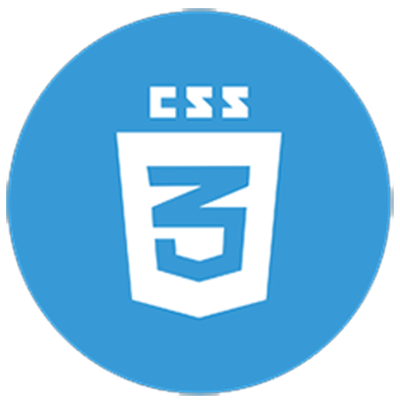
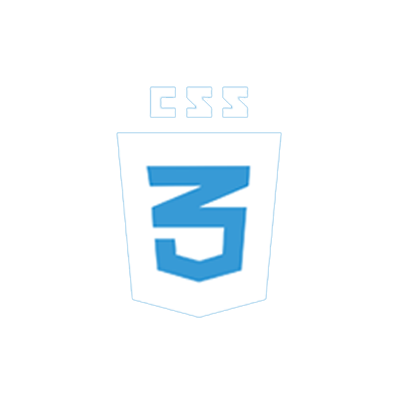
updated skill section with whole new design

diff --git a/Portfolio/index.html b/Portfolio/index.html
@@ -104,62 +104,74 @@
                 <p class="para">I am confident using on following technologies</p>
             </div>
             <div class="content">
-                <div class="img-container">
-                    <img src="images/html.png" alt="HTML">
-                    <span class="html">
-                        <p>90%</p>
-                    </span>
+                <div class="scaler-box">
+                    <p>100%</p>
+                    <p>0%</p>
                 </div>
-                <div class="img-container">
-                    <img src="images/css.png" alt="CSS">
-                    <span class="css">
+
+                <style>
+
+                </style>
+                <div class="skill-box">
+                    <div class="html-box rectangle">
                         <p>90%</p>
-                    </span>
+                        <img src="images/html.png" alt="image">
+                    </div>
                 </div>
-                <div class="img-container">
-                    <img src="images/js.png" alt="JS">
-                    <span class="js">
+                <div class="skill-box">
+                    <div class="css-box rectangle">
+                        <p>90%</p>
+                        <img src="images/css.png" alt="image">
+                    </div>
+                </div>
+                <div class="skill-box">
+                    <div class="js-box rectangle">
                         <p>80%</p>
-                    </span>
+                        <img src="images/js.png" alt="image">
+                    </div>
                 </div>
-                <div class="img-container">
-                    <img src="images/bootstrap.png" alt="bootstrap">
-                    <span class="bs">
+                <div class="skill-box">
+                    <div class="bootstrap-box rectangle">
                         <p>85%</p>
-                    </span>
+                        <img src="images/bootstrap.png" alt="image">
+                    </div>
                 </div>
-                <div class="img-container">
-                    <img src="images/github.png" alt="github">
-                    <span class="github">
+                <div class="skill-box">
+                    <div class="github-box rectangle">
                         <p>80%</p>
-                    </span>
+                        <img src="images/github.png" alt="image">
+                    </div>
                 </div>
             </div>
             <p class="para center">I have also worked on these technologies</p>
             <div class="content">
-                <div class="img-container">
-                    <img src="images/php.png" alt="PHP">
-                    <span class="php">
+                <div class="scaler-box">
+                    <p>100%</p>
+                    <p>0%</p>
+                </div>
+                <div class="skill-box">
+                    <div class="php-box rectangle">
                         <p>70%</p>
-                    </span>
+                        <img src="images/php.png" alt="image">
+                    </div>
                 </div>
-                <div class="img-container">
-                    <img src="images/laravel.png" alt="laravel">
-                    <span class="lara">
+                <div class="skill-box">
+                    <div class="laravel-box rectangle">
                         <p>60%</p>
-                    </span>
+                        <img src="images/laravel.png" alt="image">
+                    </div>
                 </div>
-                <div class="img-container">
-                    <img src="images/ai.png" alt="AI">
-                    <span class="ai">
+                <div class="skill-box">
+                    <div class="ai-box rectangle">
                         <p>60%</p>
-                    </span>
+                        <img src="images/ai.png" alt="image">
+                    </div>
                 </div>
-                <div class="img-container">
-                    <img src="images/photoshop.png" alt="PS">
-                    <span class="ps">
+                <div class="skill-box">
+                    <div class="ps-box rectangle">
                         <p>80%</p>
-                    </span>
+                        <img src="images/photoshop.png" alt="image">
+                    </div>
                 </div>
             </div>
         </div>
@@ -291,38 +303,6 @@
             </div>
         </div>
     </footer>
-
-    <style>
-        .footer-section {
-            height: 120px;
-            padding-block: 1.5rem;
-            color: var(--clr-white);
-            background-color: var(--clr-secondary);
-            text-align: center;
-        }
-
-        .footer-section .footer-info a {
-            color: var(--clr-accent);
-        }
-
-        .footer-section a:hover {
-            color: var(--clr-primary);
-            text-decoration: underline;
-        }
-
-        .footer-section .footer-socials {
-            margin-top: 1rem;
-        }
-
-        .footer-section .footer-socials a {
-            color: var(--clr-primary);
-            padding-inline: 1rem;
-        }
-
-        .footer-section .footer-socials a:hover{
-            color: var(--clr-accent);
-        }
-    </style>
 </body>
 
 </html>

diff --git a/Portfolio/css/section/skill.css b/Portfolio/css/section/skill.css
@@ -9,87 +9,120 @@
 
 .skill-container .content {
     display: flex;
-    justify-content: space-evenly;
+    justify-content: center;
+    gap: .25rem;
 }
 
-.skill-container .content .img-container {
-    width: 120px;
-    height: 120px;
-}
-
-.img-container {
+.scaler-box {
+    width: 5px;
+    height: 300px;
+    color: var(--clr-secondary);
+    background-color: var(--clr-secondary);
     position: relative;
 }
 
-.img-container span {
+.scaler-box p:nth-child(1) {
     position: absolute;
-    visibility: hidden;
-    border-radius: 24px;
-    outline: 1px solid #d9d7d7;
-    top: -10px;
-    background-color: #eaeaea;
-    width: 100%;
+    top: 0;
+    right: 10px;
 }
 
-.img-container .html p,
-.img-container .css p,
-.img-container .js p,
-.img-container .bs p,
-.img-container .github p,
-.img-container .php p,
-.img-container .lara p,
-.img-container .ai p,
-.img-container .ps p {
-    font-size: 0.9rem;
-    border-radius: 16px;
-    padding-right: 4px;
-    text-align: right;
-    color: var(--clr-white);
-    background-color: #337ab7;
+.scaler-box p:nth-child(2) {
+    position: absolute;
+    bottom: 0;
+    right: 10px;
 }
 
-.img-container .html p,
-.img-container .css p {
-    width: 90%;
+.skill-box {
+    height: 300px;
+    display: flex;
+    align-items: flex-end;
+    transition: transform .3s ease;
 }
 
-.img-container .js p,
-.img-container .github p,
-.img-container .ps p {
-    width: 80%;
+.skill-box:hover {
+    transform: translateY(-10px);
+    transition: transform .3s ease-in;
 }
 
-.img-container .bs p {
-    width: 85%;
+.html-box {
+    width: 150px;
+    height: 270px;
+    background-color: #e85823;
 }
 
-.img-container .php p {
-    width: 70%;
+.css-box {
+    width: 150px;
+    height: 270px;
+    background-color: #379ad6;
 }
 
-.img-container .lara p,
-.img-container .ai p {
-    width: 60%;
+.js-box {
+    width: 150px;
+    height: 240px;
+    background-color: #f0db4f;
 }
 
-.content .img-container img {
-    transition: scale .5s ease-out;
-    cursor: grab;
+.bootstrap-box {
+    width: 150px;
+    height: 255px;
+    background-color: #563e7c;
 }
 
-.content .img-container:hover img {
-    opacity: 0.8;
-    scale: 0.9;
-    transition: scale .5s ease-in;
+.github-box {
+    width: 150px;
+    height: 240px;
+    background-color: #171515;
 }
 
-.content .img-container:hover span {
-    visibility: visible;
-    animation: aaa .5s ease-in-out 1 normal forwards;
+.php-box {
+    width: 150px;
+    height: 210px;
+    background-color: #3765af;
 }
 
-@keyframes aaa {
-    100% {
-        top: -25px;
-    }
+.laravel-box {
+    width: 150px;
+    height: 180px;
+    background-color: #ef3b2d;
+}
+
+.ai-box {
+    width: 150px;
+    height: 180px;
+    background-color: #320000;
+}
+
+.ps-box {
+    width: 150px;
+    height: 240px;
+    background-color: #001e36;
+}
+
+.rectangle {
+    position: relative;
+}
+
+.rectangle img {
+    width: 120px;
+    height: 120px;
+    position: absolute;
+    top: 50%;
+    left: 50%;
+    transform: translate(-50%, -50%);
+}
+
+.rectangle {
+    text-align: center;
+}
+
+.rectangle p {
+    color: white;
+    opacity: 0;
+}
+
+.skill-box:hover .rectangle p {
+    opacity: 1;
+    padding-block: .5rem;
+    transition: opacity .5s ease;
 }

diff --git a/Portfolio/css/section/footer.css b/Portfolio/css/section/footer.css
@@ -1,0 +1,29 @@
+.footer-section {
+    height: 120px;
+    padding-block: 1.5rem;
+    color: var(--clr-white);
+    background-color: var(--clr-secondary);
+    text-align: center;
+}
+
+.footer-section .footer-info a {
+    color: var(--clr-accent);
+}
+
+.footer-section a:hover {
+    color: var(--clr-primary);
+    text-decoration: underline;
+}
+
+.footer-section .footer-socials {
+    margin-top: 1rem;
+}
+
+.footer-section .footer-socials a {
+    color: var(--clr-primary);
+    padding-inline: 1rem;
+}
+
+.footer-section .footer-socials a:hover {
+    color: var(--clr-accent);
+}

diff --git a/Portfolio/css/main/util.css b/Portfolio/css/main/util.css
@@ -9,7 +9,7 @@
 
 
  section {
-     animation: fade-in linear both;
+     /* animation: fade-in linear both; */
      animation-timeline: view();
      animation-range: entry 20% cover 50%;
  }
@@ -41,5 +41,5 @@
  }
 
  .content {
-     margin: 2rem 0;
+     margin: 1rem 0;
  }
